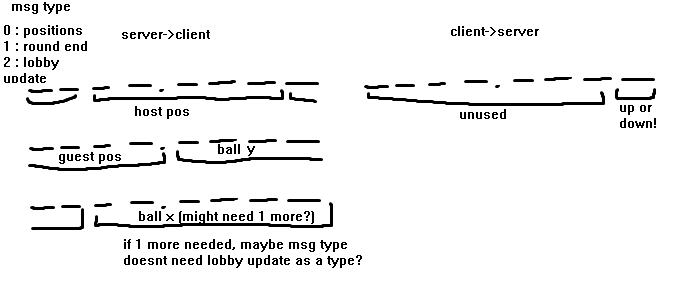
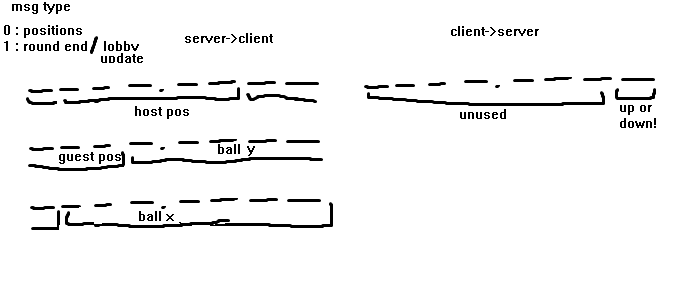
Implement protocol transforms, add Game to Program, add test proj

diff --git a/PongServer/wwwroot/index.html b/PongServer/wwwroot/index.html
@@ -152,12 +152,16 @@
       toast("lost connection to server");
     }
     socket.onmessage = function (event) {
-        console.log(event);
+      console.log(event);
       event.data.arrayBuffer().then((x) => {
         const uint8Array = new Uint8Array(x);
         console.log(uint8Array);
+          console.log(uint8Array[0].toString(2));
+          console.log(uint8Array[1].toString(2));
+          console.log(uint8Array[2].toString(2));
+          console.log("");
         toast("from server: " + uint8Array[0]);
-        myPaddlePos = (uint8Array[0] % 20) * moveDist;
+        myPaddlePos = (uint8Array[0] & 0b01111100) * moveDist;
       });
     }
 
@@ -172,14 +176,14 @@
     const moveDist = 30;
     function movePaddleUp() {
       var dist = -moveDist;
-      movePaddle(dist, "u");
+      movePaddle(dist, 0b0);
     }
     function movePaddleDown() {
       var dist = moveDist;
-      movePaddle(dist, "d");
+      movePaddle(dist, 0b1);
     }
     function movePaddle(dist, data) {
-      myPaddlePos += dist;
+      //myPaddlePos += dist;
       if (!socket || socket.readyState !== WebSocket.OPEN) {
         alert("socket not connected");
       }

diff --git a/PongServer/Program.cs b/PongServer/Program.cs
@@ -1,12 +1,15 @@
 using System.IO;
 using System.Net.WebSockets;
-using System.Runtime.InteropServices;
 using System.Text;
 
 namespace PongServer
 {
   public class Program
   {
+    public static WebSocket? First { get; set; }
+    public static WebSocket? Second { get; set; }
+    public static Game? Game { get; set; }
+
     public static void Main(string[] args)
     {
       var builder = WebApplication.CreateBuilder(args);
@@ -65,7 +68,55 @@ namespace PongServer
     {
       Console.WriteLine("Socket opened");
 
-      var buffer = new byte[16];
+      if (First == null)
+      {
+        First = ws;
+      /*}
+      else if (Second == null)
+      {*/
+        Second = ws;
+        Game = new Game(First, null);
+        while (ws.CloseStatus == null)
+        {
+          Console.WriteLine("waiting for client messagbe");
+          var buffer = new byte[1];
+          var recieveResult = await ws.ReceiveAsync(
+            new ArraySegment<byte>(buffer), CancellationToken.None);
+          Console.WriteLine("received client messagbe");
+          Console.WriteLine(buffer[0].ToString("B8"));
+          Console.WriteLine(buffer[0].ToString());
+          bool up = (buffer[0] & 0b1) == 0b0;
+
+          // update (both) client(s)
+          await Game.ProcessMoveRequest(PlayerType.Guest, up);
+
+        }
+        //_ = Task.Run(async () => await PingAndListen(First, PlayerType.Host));
+        //_ = Task.Run(async () => await PingAndListen(Second, PlayerType.Guest));
+      }
+    }
+
+    private static async Task PingAndListen(WebSocket ws, PlayerType playerType)
+    {
+      _ = Task.Run(async () =>
+      {
+        while (ws.CloseStatus == null)
+        {
+          Console.WriteLine("waiting for client messagbe");
+          var buffer = new byte[1];
+          var recieveResult = await ws.ReceiveAsync(
+            new ArraySegment<byte>(buffer), CancellationToken.None);
+          Console.WriteLine("received client messagbe");
+          Console.WriteLine(buffer[0].ToString("B8"));
+          Console.WriteLine(buffer[0].ToString());
+          var up = (buffer[0] & 0b1) == 0b0;
+          var down = (buffer[0] & 0b1) == 0b1;
+
+          // update (both) client(s)
+          await Game.ProcessMoveRequest(playerType, up);
+
+        }
+      });
 
       while (ws.CloseStatus == null)
       {
@@ -76,10 +127,7 @@ namespace PongServer
           CancellationToken.None);
 
         Thread.Sleep(500);
-        /*var recieveResult = await ws.ReceiveAsync(
-          new ArraySegment<byte>(buffer), CancellationToken.None);*/
       }
-
     }
 
     public static async Task Echo(WebSocket ws)

diff --git a/PongServer/Game.cs b/PongServer/Game.cs
@@ -2,7 +2,7 @@
 
 namespace PongServer
 {
-  public partial class Game
+  public class Game
   {
     // ws for each player
     // player1 paddle pos
@@ -11,15 +11,74 @@ namespace PongServer
     // ball vel? (maybe just for client optimism)
     // score
 
-    PongClient Host { get; set; }
-    PongClient Guest { get; set; }
+    public PongClient Host { get; set; }
+    public PongClient Guest { get; set; }
+    public int BallY { get; set; }
+    public int BallX { get; set; }
 
     public Game(WebSocket hostWs, WebSocket guestWs)
     {
-      Host = new PongClient(hostWs);
-      Guest = new PongClient(guestWs);
+      Host = new PongClient(hostWs, PlayerType.Host);
+      Guest = new PongClient(guestWs, PlayerType.Guest);
+      BallY = 0;
+      BallX = 0;
     }
 
+    public async Task ProcessMoveRequest(PlayerType playerType, bool up)
+    {
+      switch (playerType)
+      {
+        case PlayerType.Host:
+          Host.MovePaddle(up);
+          break;
+        case PlayerType.Guest:
+          Guest.MovePaddle(up);
+          break;
+      }
+
+      await SendUpdateToClients();
+    }
+
+    public async Task SendUpdateToClients()
+    {
+      var data = new ArraySegment<byte>(
+        GetMessageForClients(
+          PongMessageType.Positions,
+          Host.PaddlePos,
+          Guest.PaddlePos,
+          BallY,
+          BallX
+        )
+      );
+
+      await Host.WebSocket.SendAsync(data, WebSocketMessageType.Binary, true, CancellationToken.None);
+      //await Guest.WebSocket.SendAsync(data, WebSocketMessageType.Binary, true, CancellationToken.None);
+    }
+
+    public static byte[] GetMessageForClients(
+      PongMessageType msgType,
+      int hostPos,
+      int guestPos,
+      int ballY,
+      int ballX
+      )
+    {
+      var msgTypeBit_0 = ((byte)msgType & 1) << 7;
+      var hostPosBits_1_5 = (hostPos & 0b11111) << 2;
+      var guestPosBits_6_7 = (guestPos & 0b11000) >> 3;
+
+      var guestPosBits_8_10 = (guestPos & 0b00111) << 5;
+      var ballYBits_11_15 = (ballY & 0b111110) >> 1;
+
+      var ballYBits_16 = (ballY & 0b000001) << 7;
+      var ballXBits_17_23 = ballX & 0b1111111;
+
+      return new byte[3] {
+        (byte)(msgTypeBit_0 | hostPosBits_1_5 | guestPosBits_6_7),
+        (byte)(guestPosBits_8_10 | ballYBits_11_15),
+        (byte)(ballYBits_16 | ballXBits_17_23)
+      };
+    }
 
   }
 }

diff --git a/PongServer.Tests/ClientMessageTests.cs b/PongServer.Tests/ClientMessageTests.cs
@@ -1,0 +1,54 @@
+using PongServer;
+
+namespace PongServer.Tests
+{
+  public class ClientMessageTests
+  {
+    [Fact]
+    public void AllZeros()
+    {
+      var result = Game.GetMessageForClients(PongMessageType.Positions, 0, 0, 0, 0);
+      Assert.Equal(3, result.Length);
+      Assert.Equal(0, result[0]);
+      Assert.Equal(0, result[1]);
+      Assert.Equal(0, result[2]);
+    }
+
+    [Fact]
+    public void MessageType_Positions()
+    {
+      var result = Game.GetMessageForClients(PongMessageType.Positions, 0, 0, 0, 0);
+      Assert.Equal(0, result[0] & 0b10000000);
+    }
+    [Fact]
+    public void MessageType_RoundEnd()
+    {
+      var result = Game.GetMessageForClients(PongMessageType.RoundEnd, 0, 0, 0, 0);
+      Assert.Equal(0b10000000, result[0] & 0b10000000);
+    }
+
+    [Theory]
+    [InlineData(0)]
+    [InlineData(10)]
+    [InlineData(16)]
+    [InlineData(31)]
+    public void HostPos(int hostPos)
+    {
+      var result = Game.GetMessageForClients(PongMessageType.Positions, hostPos, 0, 0, 0);
+      Assert.Equal(hostPos, (result[0] & 0b01111100) >> 2);
+    }
+
+    [Theory]
+    [InlineData(0)]
+    [InlineData(10)]
+    [InlineData(16)]
+    [InlineData(31)]
+    [InlineData(63)]
+    public void BallY(int ballY)
+    {
+      var result = Game.GetMessageForClients(PongMessageType.Positions, 0, 0, ballY, 0);
+      Assert.Equal(ballY >> 1, result[1] & 0b00011111);
+      Assert.Equal(ballY & 1, (result[2] & 0b10000000) >> 7);
+    }
+  }
+}

diff --git a/PongServer/PongClient.cs b/PongServer/PongClient.cs
@@ -2,21 +2,39 @@
 
 namespace PongServer
 {
-  public partial class Game
+  public class PongClient
   {
-    public class PongClient
+    public PongClient(WebSocket ws, PlayerType playerType)
     {
-      public PongClient(WebSocket ws)
-      {
-        WebSocket = ws;
-        Score = 0;
-        PaddlePos = 0;
-      }
-      public WebSocket WebSocket { get; set; }
-      public int Score { get; set; }
-      public int PaddlePos { get; set; }
+      WebSocket = ws;
+      PlayerType = playerType;
+      Score = 0;
+      PaddlePos = 0;
+    }
+    public WebSocket WebSocket { get; set; }
+    public PlayerType PlayerType { get; set; }
+    public int Score { get; set; }
+    public int PaddlePos { get; set; }
+
+    public const int PaddleMax = 31;
+    public const int PaddleMin = 0;
+
+    public void MovePaddle(bool up)
+    {
+      PaddlePos += up ? 1 : -1;
+      ClampPaddlePos();
     }
 
-
+    public void ClampPaddlePos()
+    {
+      if (PaddlePos > PongClient.PaddleMax)
+      {
+        PaddlePos = PongClient.PaddleMax;
+      }
+      if (PaddlePos < PongClient.PaddleMin)
+      {
+        PaddlePos = PongClient.PaddleMin;
+      }
+    }
   }
 }

diff --git a/PongServer/PongMessageType.cs b/PongServer/PongMessageType.cs
@@ -1,0 +1,8 @@
+namespace PongServer
+{
+  public enum PongMessageType
+  {
+    Positions = 0,
+    RoundEnd = 1,
+  }
+}

diff --git a/PongServer/PlayerType.cs b/PongServer/PlayerType.cs
@@ -1,0 +1,8 @@
+namespace PongServer
+{
+  public enum PlayerType
+  {
+    Host = 0,
+    Guest = 1,
+  }
+}
